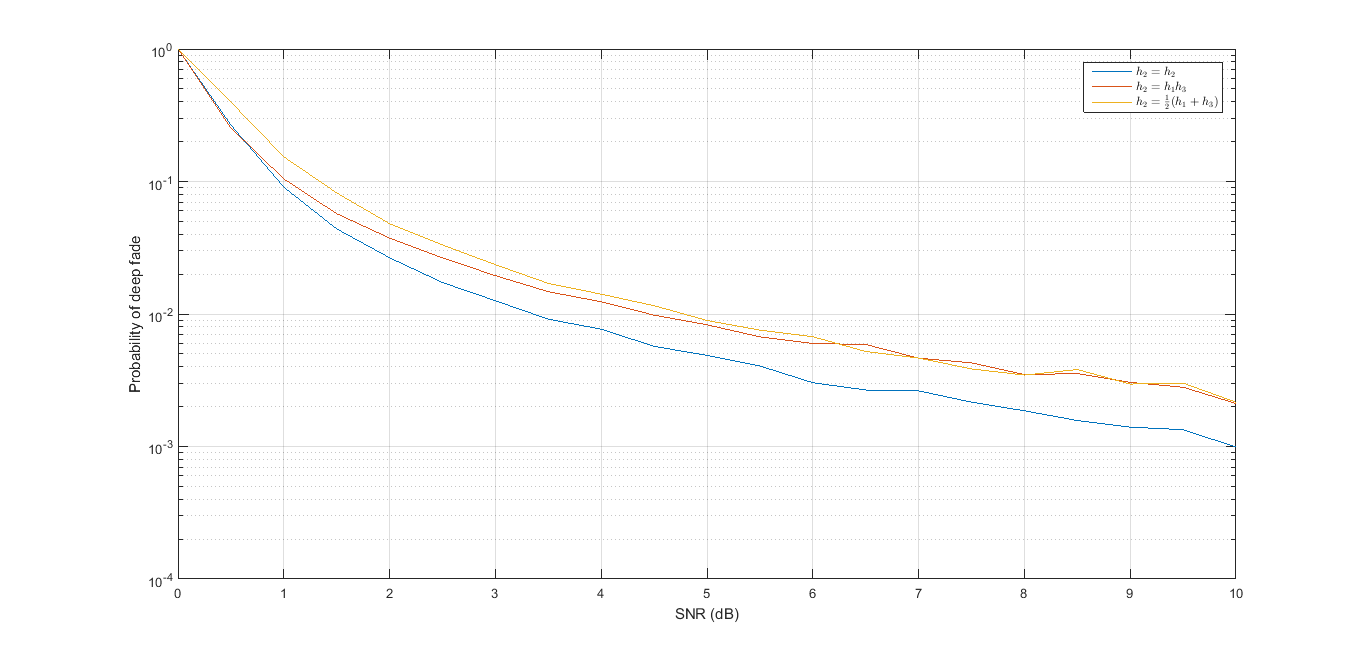
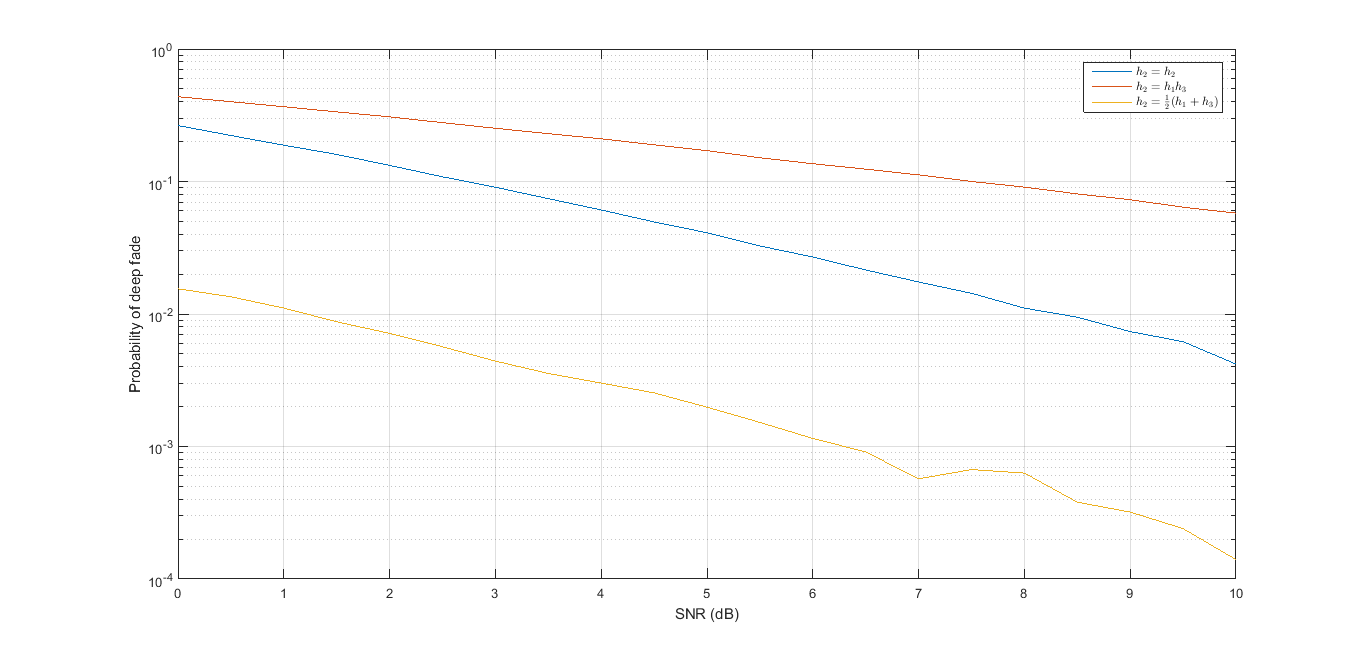
small edits on 3 and images

Changed region(s): [[0.1537, 0.1536, 0.1845, 0.1843]]

diff --git a/problem4.m b/problem4.m
@@ -10,11 +10,12 @@ figure, plot(x, qfunc(x));
 hold on;
 plot(x, expApprox);
 hold on;
-plot(x, abs(expApprox-qfunc(x)), '--');
+plot(x, abs(expApprox-qfunc(x)), 'k--');
 grid on;
 lgd=legend('Q(x)', '$e^{-x^2/2}$', '$|Q(x) - e^{-x^2/2}|$' );
 set(lgd,'Interpreter','latex');
 xlabel('x')
+%daspect([1 1 2])
 % densGauss = 1/sqrt(2*pi)*exp((-(x).^2));
 % figure, plot(x, densGauss);
 % hold on;
@@ -24,7 +25,7 @@ xlabel('x')
 smallerThan = 0.01:0.001:2;
 results=zeros(1, length(smallerThan));
 
-rep=5000;
+rep=10000;
 % 
 % hArray=[];
 % for i=1:rep 
@@ -49,11 +50,11 @@ figure, plot(smallerThan, results./rep);
 hold on;
 plot(smallerThan, smallerThan);
 hold on;
-plot(smallerThan, abs(results./rep-smallerThan), '--');
+plot(smallerThan, abs(results./rep-smallerThan), 'k--');
 grid on;
 lgd=legend('$P(||h||^2<x)$', '$x$', '$|P(||h||^2<x) - x|$' );
 set(lgd,'Interpreter','latex');
-
+daspect([1 1 2]);
 %3rd question
 
 smallerThan = 0.1:0.1:100;
@@ -75,13 +76,14 @@ for i=1:rep
 end
         
 figure, plot(smallerThan, results./rep);
-hold on;
-plot(smallerThan, smallerThan);
-hold on;
-plot(smallerThan, abs(results./rep-smallerThan), '--');
+%hold on;
+% plot(smallerThan, smallerThan);
+% hold on;
+% plot(smallerThan, abs(results./rep-smallerThan), 'k--');
 grid on;
-lgd=legend('$P(||h||^2<x)$', '$x$', '$|P(||h||^2<x) - x|$' );
+lgd=legend('$P(||h||^2<x)$' );
 set(lgd,'Interpreter','latex');
+%daspect([1 1 2]);
 
 %4th question
 k=1:3;
@@ -108,19 +110,35 @@ legend('k=1', 'k=2', 'k=3');
 
  figure, plot(smallerThan, gammainc(smallerThan./2,k(1),'lower'));
  hold on;
-%  plot(smallerThan, results(1,:)./rep, '--');
+%plot(smallerThan, results(1,:)./rep, '--');
 %  hold on;
  plot(smallerThan, smallerThan.^k(1))
- 
+hold on;
+ plot(smallerThan, abs(smallerThan.^k(1)-gammainc(smallerThan./2,k(1),'lower')), '--k')
+ grid on;
+lgd=legend('$P(||h||^2<x)$', '$x$', '$|P(||h||^2<x) - x|$');
+set(lgd,'Interpreter','latex');
+daspect([1 1 2]);
+
 figure, plot(smallerThan, gammainc(smallerThan./2,k(2),'lower'));
 axis([-inf inf 0 0.7]);
 hold on;
-% plot(smallerThan, results(3,:)./rep);
+% plot(smallerThan, results(2,:)./rep);
 plot(smallerThan, smallerThan.^k(2))
-
+hold on;
+ plot(smallerThan, abs(smallerThan.^k(2)-gammainc(smallerThan./2,k(2),'lower')), '--k')
+ grid on;
+lgd=legend('$P(||h||^2<x)$', '$x^2$', '$|P(||h||^2<x) - x^2|$' );
+set(lgd,'Interpreter','latex');
+%daspect([1 1 2]);
 
 figure, plot(smallerThan, gammainc(smallerThan./2,k(3),'lower'));
 axis([-inf inf 0 0.7]);
 hold on;
-% plot(smallerThan, results(3,:)./rep);
+%plot(smallerThan, results(3,:)./rep);
 plot(smallerThan, smallerThan.^k(3))
+% hold on;
+% plot(smallerThan, abs(smallerThan.^k(3)-gammainc(smallerThan./2,k(3),'lower')), '--k')
+grid on;
+lgd=legend('$P(||h||^2<x)$', '$x^3$' );
+set(lgd,'Interpreter','latex');

diff --git a/problem2.m b/problem2.m
@@ -2,7 +2,7 @@ clc
 close all
 clear
 
-mc = 1e4; %MonteCarlo
+mc = 1e5; %MonteCarlo
 
 SNR = 0:0.5:10; %dB
 
@@ -24,7 +24,7 @@ for j=1:mc
           
         h = [h1 h2];
 
-        if (sum(abs(h).^2)*SNR(SNRi)<1)
+        if (sum(abs(h).^2)*10^(SNR(SNRi)/10)<1)
             P1(SNRi)=P1(SNRi)+1;
         end
     end
@@ -36,7 +36,7 @@ for j=1:mc
         
         h = [h1 h2];
 
-        if (sum(abs(h).^2)*SNR(SNRi)<1)
+        if (sum(abs(h).^2)*10^(SNR(SNRi)/10)<1)
             P2(SNRi)=P2(SNRi)+1;
         end
     end
@@ -48,7 +48,7 @@ for j=1:mc
         
         h = [h1 h2];
 
-        if (sum(abs(h).^2)*SNR(SNRi)<1)
+        if (sum(abs(h).^2)*10^(SNR(SNRi)/10)<1)
             P3(SNRi)=P3(SNRi)+1;
         end
     end
@@ -117,11 +117,11 @@ P34=P34./mc;
 P35=P35./mc;
 
 figure('NumberTitle','off','Name','Problem 2, case 1,2,3');
-semilogy(SNR, P1,'b');
+semilogy(SNR, P1);
 hold on
-semilogy(SNR, P2,'r');
+semilogy(SNR, P2);
 hold on
-semilogy(SNR, P3,'g');
+semilogy(SNR, P3);
 ylabel('Probability of deep fade')
 xlabel('SNR (dB)')
 grid on;
@@ -129,14 +129,14 @@ lgd=legend('$h_2=h_2$', '$h_2=h_1 h_3$', '$h_2 =\frac{1}{2}(h_1+h_3)$' );
 set(lgd,'Interpreter','latex');
 
 figure('NumberTitle','off','Name','Problem 3');
-semilogy(SNR, P31, 'b');
+semilogy(SNR, P31);
 hold on
-semilogy(SNR, P32, 'r');
+semilogy(SNR, P32);
 hold on
-semilogy(SNR, P34, 'g');
+semilogy(SNR, P35);
 hold on
-semilogy(SNR, P35, 'y');
+semilogy(SNR, P34);
 ylabel('Probability of deep fade')
 xlabel('SNR (dB)')
 grid on;
-legend('2x1', '3x1 and 1x3', '1x10', '15x1 (all the same)')
+legend('2x1', '3x1 and 1x3', '15x1 (all the same)', '1x10' )
